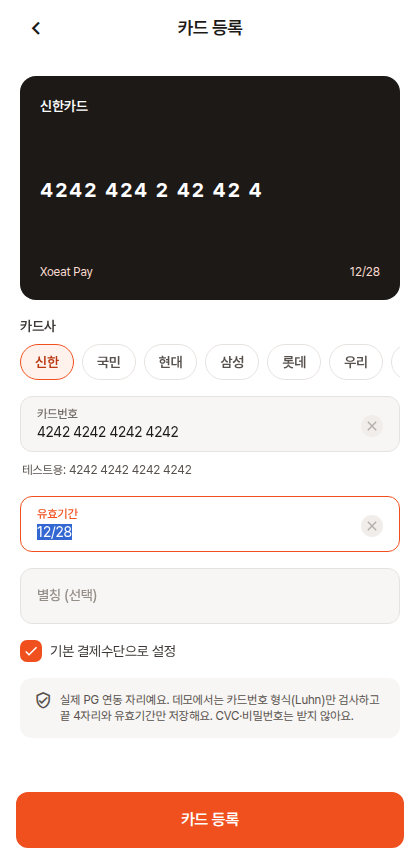
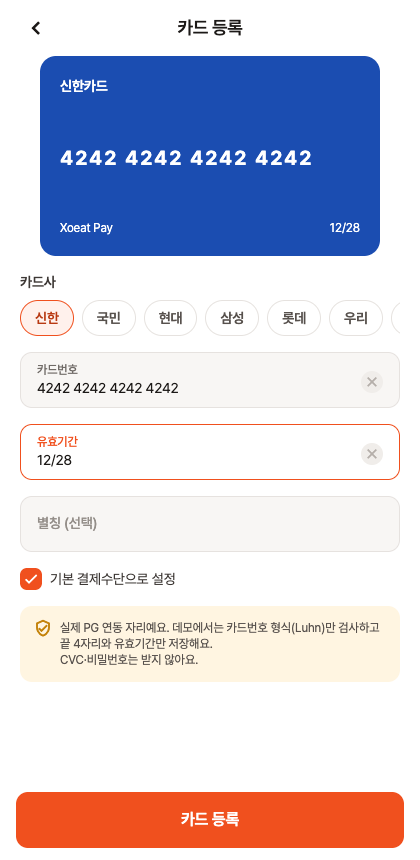
fix: 입력칸 높이가 56에서 늘어나던 문제 수정 (TextField 가로 배치 상자 복구), 뒤로 버튼 접근성 이름, README 캡처 갱신

diff --git a/src/components/common/TextField.tsx b/src/components/common/TextField.tsx
@@ -25,22 +25,25 @@ interface TextFieldProps {
 const TextField: React.FC<TextFieldProps> = ({ id, inputMode = 'text', label, value, onChangeText, placeholder, error, descMessage, secure = false, disabled, maxLength, editable, inputRef, onFocus }) => {
   return (
     <View>
-      <AnimatedTextInput
-        ref={inputRef}
-        id={id}
-        inputMode={inputMode}
-        placeholder={placeholder}
-        placeholderTextColor={theme.colors.gray300}
-        value={value}
-        setValue={onChangeText}
-        secureTextEntry={secure}
-        label={label}
-        error={error}
-        disabled={disabled}
-        maxLength={maxLength}
-        editable={editable}
-        onFocus={() => onFocus?.()}
-      />
+      {/* 입력칸은 반드시 가로 배치(row) 상자 안에 둔다. AnimatedTextInput 의 flex: 1 이 세로로 작용하면 높이가 56 을 넘겨 늘어난다 */}
+      <View style={styles.inputRow}>
+        <AnimatedTextInput
+          ref={inputRef}
+          id={id}
+          inputMode={inputMode}
+          placeholder={placeholder}
+          placeholderTextColor={theme.colors.gray300}
+          value={value}
+          setValue={onChangeText}
+          secureTextEntry={secure}
+          label={label}
+          error={error}
+          disabled={disabled}
+          maxLength={maxLength}
+          editable={editable}
+          onFocus={() => onFocus?.()}
+        />
+      </View>
 
       {/* 보여줘야 하는 오류 or 안내 메시지가 있는 경우 */}
       {descMessage && (
@@ -56,6 +59,7 @@ const TextField: React.FC<TextFieldProps> = ({ id, inputMode = 'text', label, va
 };
 
 const styles = StyleSheet.create({
+  inputRow: { flexDirection: 'row', alignItems: 'center' },
   alertMsg: {
     flexDirection: 'row',
     alignItems: 'center',

diff --git a/src/components/common/Header.tsx b/src/components/common/Header.tsx
@@ -36,6 +36,8 @@ const Header: React.FC<HeaderProps> = ({ bgColor, title, leftButton, leftEvent }
                 }
               : () => undefined
           }
+          accessibilityRole={leftButton ? 'button' : undefined}
+          accessibilityLabel={leftButton ? '뒤로' : undefined}
           style={({ pressed }) => [styles.button, pressed && leftButton && styles.pressed]}>
           {leftButton && <Icon source="chevron-left" size={26} color={theme.colors.gray900} />}
         </Pressable>

diff --git a/src/components/common/AnimatedTextInput.tsx b/src/components/common/AnimatedTextInput.tsx
@@ -168,6 +168,8 @@ const styles = StyleSheet.create({
     justifyContent: 'center',
     paddingTop: 14,
     paddingBottom: 10,
+    // 가로 배치(row) 안에서 남는 너비를 채우기 위한 값. TextField 가 row 상자로 감싸 준다.
+    // 세로 배치 안에 그대로 두면 flex 가 높이에 작용해 56 이 아니라 내용 크기만큼 늘어난다
     flex: 1,
   },
   label: {
